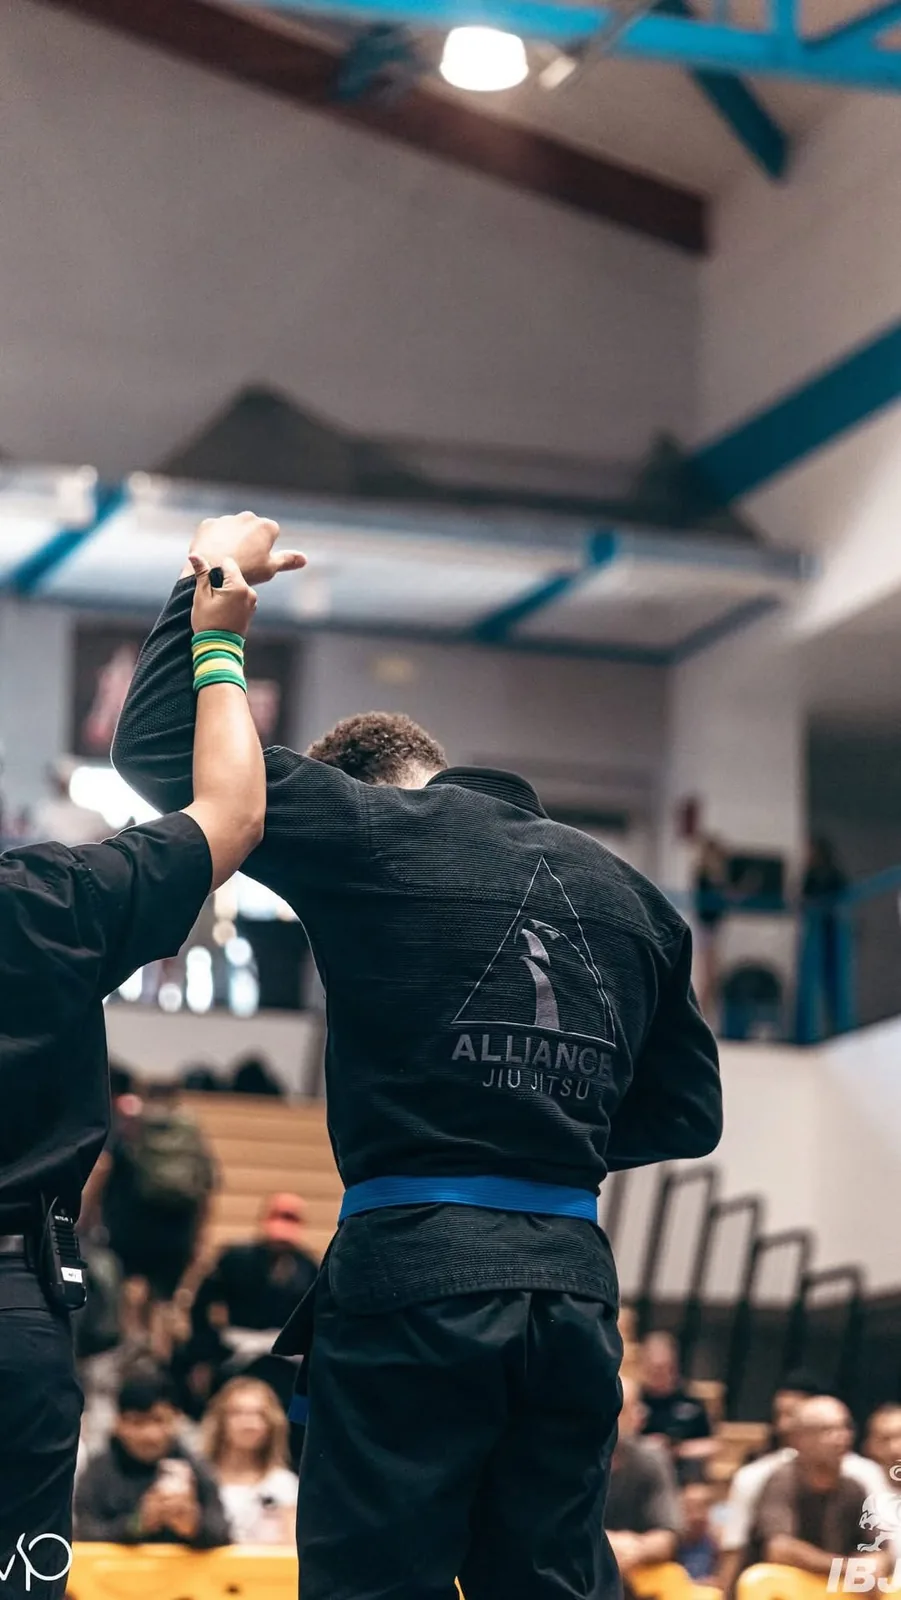
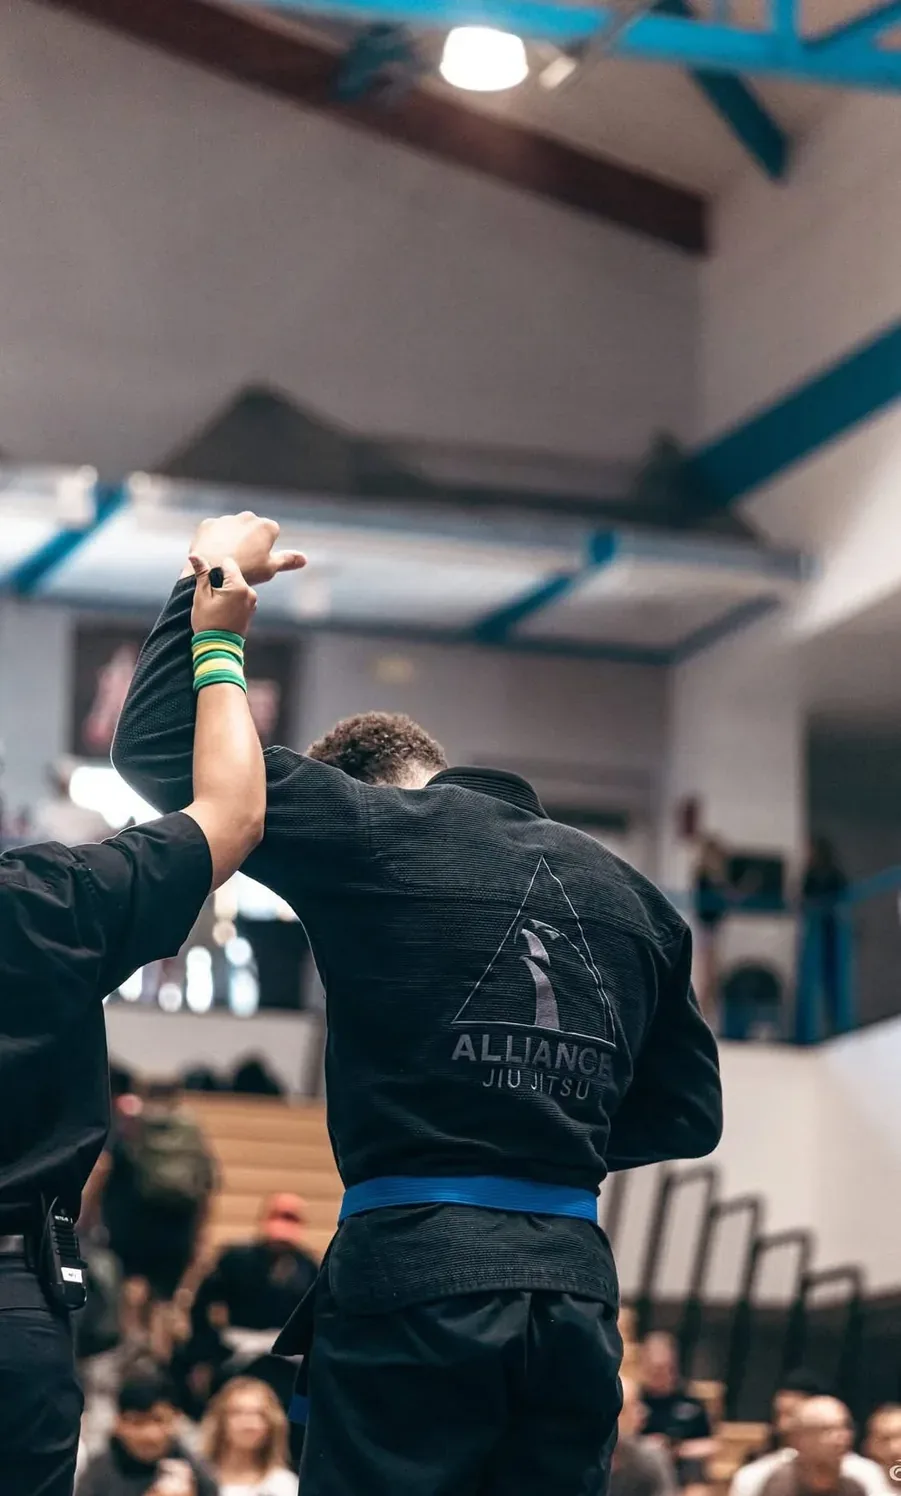
Crop competition-result text and watermarks out of No-Gi photos

diff --git a/es.html b/es.html
@@ -128,11 +128,11 @@
     <div class="prog rv stagger">
       <a class="pcard" href="start.html"><img src="img/beginners.webp" alt="" loading="lazy" width="846" height="564"><div class="pin"><small>Adultos · sin experiencia</small><b>Principiantes</b><span>Curso de cuatro semanas</span></div></a>
       <a class="pcard" href="programs.html#fundamentals"><img src="img/ig-fundamentals.webp" alt="" loading="lazy" width="720" height="1280"><div class="pin"><small>Adultos</small><b>Fundamentos</b><span>Niveles 1, 2 y 3</span></div></a>
-      <a class="pcard" href="programs.html#nogi"><img src="img/ig-nogi-1.webp" alt="" loading="lazy" width="899" height="1600"><div class="pin"><small>Todos los niveles</small><b>No-Gi</b><span>Seis clases por semana</span></div></a>
+      <a class="pcard" href="programs.html#nogi"><img src="img/ig-nogi-1.webp" alt="" loading="lazy" width="899" height="992"><div class="pin"><small>Todos los niveles</small><b>No-Gi</b><span>Seis clases por semana</span></div></a>
       <a class="pcard" href="womens.html"><img src="img/ig-womens-1.webp" alt="" loading="lazy" width="640" height="665"><div class="pin"><small>Solo mujeres</small><b>Mujeres</b><span>Instructora cinturón negro</span></div></a>
       <a class="pcard" href="kids.html"><img src="img/kids-run.webp" alt="" loading="lazy" width="1800" height="1200"><div class="pin"><small>3 a 12 años</small><b>Niños · Eagles</b><span>Cuatro grupos por edad</span></div></a>
       <a class="pcard" href="kids.html#teens"><img src="img/ig-kids-coach.webp" alt="" loading="lazy" width="640" height="1136"><div class="pin"><small>13 a 16 años</small><b>Adolescentes</b><span>Mar y Jue 5 pm</span></div></a>
-      <a class="pcard" href="programs.html#advanced"><img src="img/ig-nogi-win.webp" alt="" loading="lazy" width="901" height="1600"><div class="pin"><small>Cinturón azul en adelante</small><b>Avanzado y competición</b><span>La sala de Cobrinha</span></div></a>
+      <a class="pcard" href="programs.html#advanced"><img src="img/ig-nogi-win.webp" alt="" loading="lazy" width="901" height="1496"><div class="pin"><small>Cinturón azul en adelante</small><b>Avanzado y competición</b><span>La sala de Cobrinha</span></div></a>
       <a class="pcard" href="programs.html#private"><img src="img/cobrinha.webp" alt="" loading="lazy" width="500" height="749"><div class="pin"><small>Uno a uno</small><b>Clases privadas</b><span>Desde $160</span></div></a>
     </div>
   </div>

diff --git a/index.html b/index.html
@@ -167,8 +167,8 @@
     <div class="prog rv stagger">
       <a class="pcard" href="start.html"><img src="img/beginners.webp" alt="" loading="lazy" width="846" height="564"><div class="pin"><small>Adults · no experience</small><b>Beginners</b><span>Four-week course, three classes a week</span></div></a>
       <a class="pcard" href="programs.html#fundamentals"><img src="img/ig-fundamentals.webp" alt="" loading="lazy" width="720" height="1280"><div class="pin"><small>Adults · white to blue</small><b>Fundamentals</b><span>Levels 1, 2 and 3 by stripe</span></div></a>
-      <a class="pcard" href="programs.html#advanced"><img src="img/ig-nogi-win.webp" alt="" loading="lazy" width="901" height="1600"><div class="pin"><small>Adults · blue belt and up</small><b>Advanced &amp; Competition</b><span>Cobrinha's room</span></div></a>
-      <a class="pcard" href="programs.html#nogi"><img src="img/ig-nogi-1.webp" alt="" loading="lazy" width="899" height="1600"><div class="pin"><small>Adults · all levels</small><b>No-Gi</b><span>Six classes a week, Tuesday and Thursday</span></div></a>
+      <a class="pcard" href="programs.html#advanced"><img src="img/ig-nogi-win.webp" alt="" loading="lazy" width="901" height="1496"><div class="pin"><small>Adults · blue belt and up</small><b>Advanced &amp; Competition</b><span>Cobrinha's room</span></div></a>
+      <a class="pcard" href="programs.html#nogi"><img src="img/ig-nogi-1.webp" alt="" loading="lazy" width="899" height="992"><div class="pin"><small>Adults · all levels</small><b>No-Gi</b><span>Six classes a week, Tuesday and Thursday</span></div></a>
       <a class="pcard" href="womens.html"><img src="img/ig-womens-1.webp" alt="" loading="lazy" width="640" height="665"><div class="pin"><small>Women only · black belt coach</small><b>Women's</b><span>Tue 8 am · Sat 11:15 am · free trial Wed 6:10 pm</span></div></a>
       <a class="pcard" href="kids.html"><img src="img/kids-run.webp" alt="" loading="lazy" width="1800" height="1200"><div class="pin"><small>Ages 3–12</small><b>Kids · Eagles</b><span>Baby, Little and Warrior Eagles</span></div></a>
       <a class="pcard" href="kids.html#teens"><img src="img/ig-kids-coach.webp" alt="" loading="lazy" width="640" height="1136"><div class="pin"><small>Ages 13–16</small><b>Teens</b><span>Tue &amp; Thu 5 pm</span></div></a>

diff --git a/programs.html b/programs.html
@@ -90,8 +90,8 @@
     <div class="prog rv stagger">
       <a class="pcard" href="start.html"><img src="img/beginners.webp" alt="" loading="lazy" width="846" height="564"><div class="pin"><small>Adults · no experience</small><b>Beginners</b><span>Four-week course</span></div></a>
       <a class="pcard" href="#fundamentals"><img src="img/ig-fundamentals.webp" alt="" loading="lazy" width="720" height="1280"><div class="pin"><small>Adults</small><b>Fundamentals</b><span>Levels 1, 2, 3</span></div></a>
-      <a class="pcard" href="#advanced"><img src="img/ig-nogi-win.webp" alt="" loading="lazy" width="901" height="1600"><div class="pin"><small>Blue belt and up</small><b>Advanced &amp; Competition</b><span>Cobrinha's room</span></div></a>
-      <a class="pcard" href="#nogi"><img src="img/ig-nogi-1.webp" alt="" loading="lazy" width="899" height="1600"><div class="pin"><small>All levels</small><b>No-Gi</b><span>Six classes a week</span></div></a>
+      <a class="pcard" href="#advanced"><img src="img/ig-nogi-win.webp" alt="" loading="lazy" width="901" height="1496"><div class="pin"><small>Blue belt and up</small><b>Advanced &amp; Competition</b><span>Cobrinha's room</span></div></a>
+      <a class="pcard" href="#nogi"><img src="img/ig-nogi-1.webp" alt="" loading="lazy" width="899" height="992"><div class="pin"><small>All levels</small><b>No-Gi</b><span>Six classes a week</span></div></a>
       <a class="pcard" href="womens.html"><img src="img/ig-womens-1.webp" alt="" loading="lazy" width="640" height="665"><div class="pin"><small>Women only</small><b>Women's</b><span>Black belt coach</span></div></a>
       <a class="pcard" href="kids.html"><img src="img/kids-run.webp" alt="" loading="lazy" width="1800" height="1200"><div class="pin"><small>Ages 3–12</small><b>Kids · Eagles</b><span>Four age groups</span></div></a>
       <a class="pcard" href="kids.html#teens"><img src="img/ig-kids-coach.webp" alt="" loading="lazy" width="640" height="1136"><div class="pin"><small>Ages 13–16</small><b>Teens</b><span>Tue &amp; Thu 5 pm</span></div></a>
